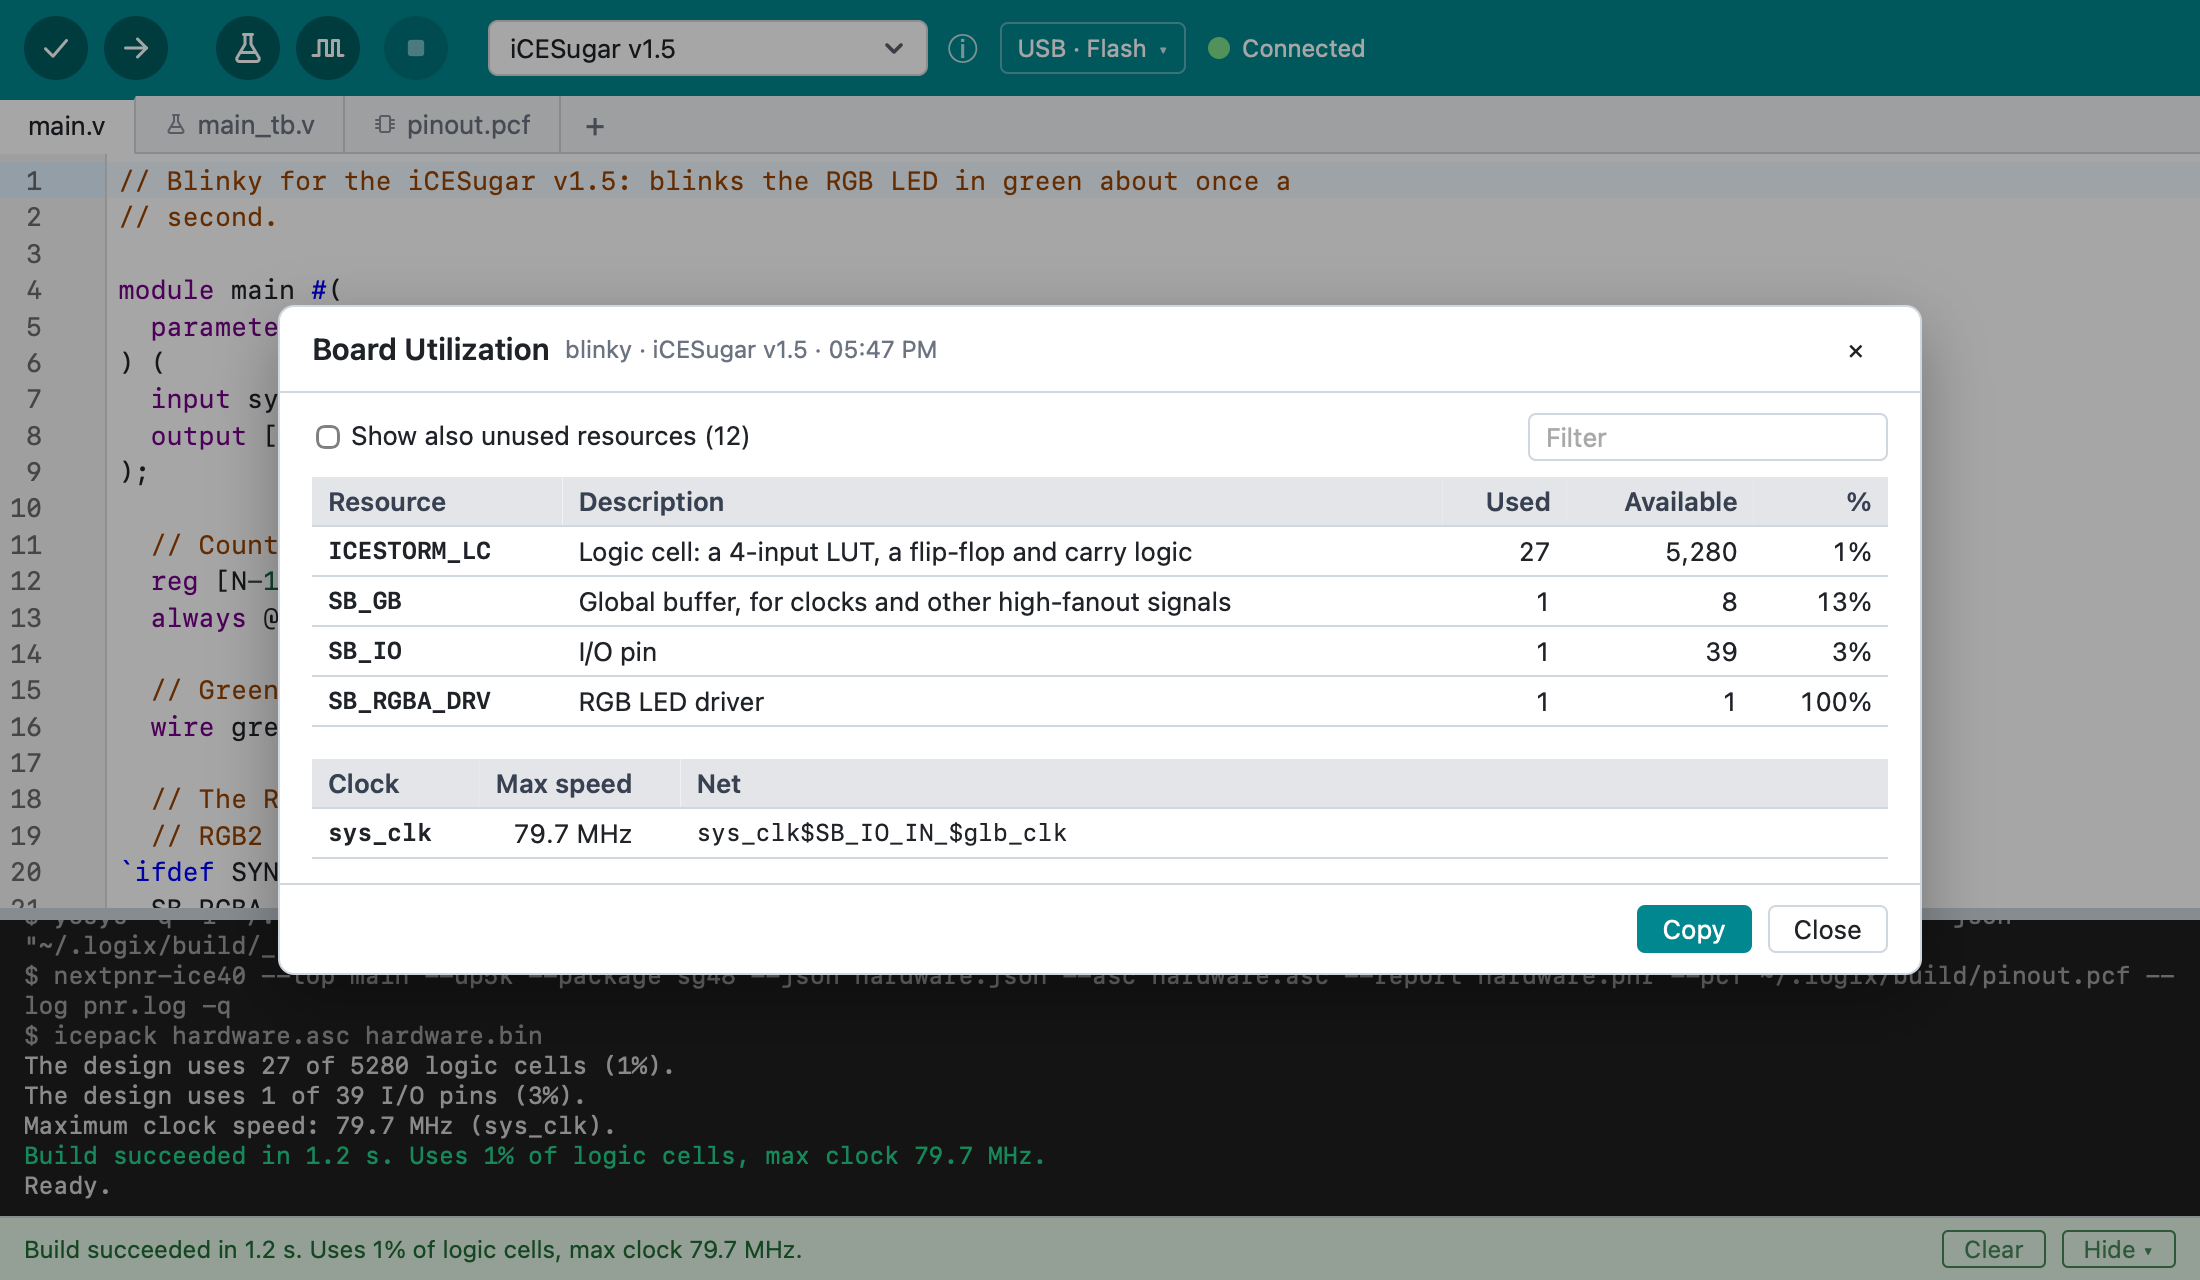
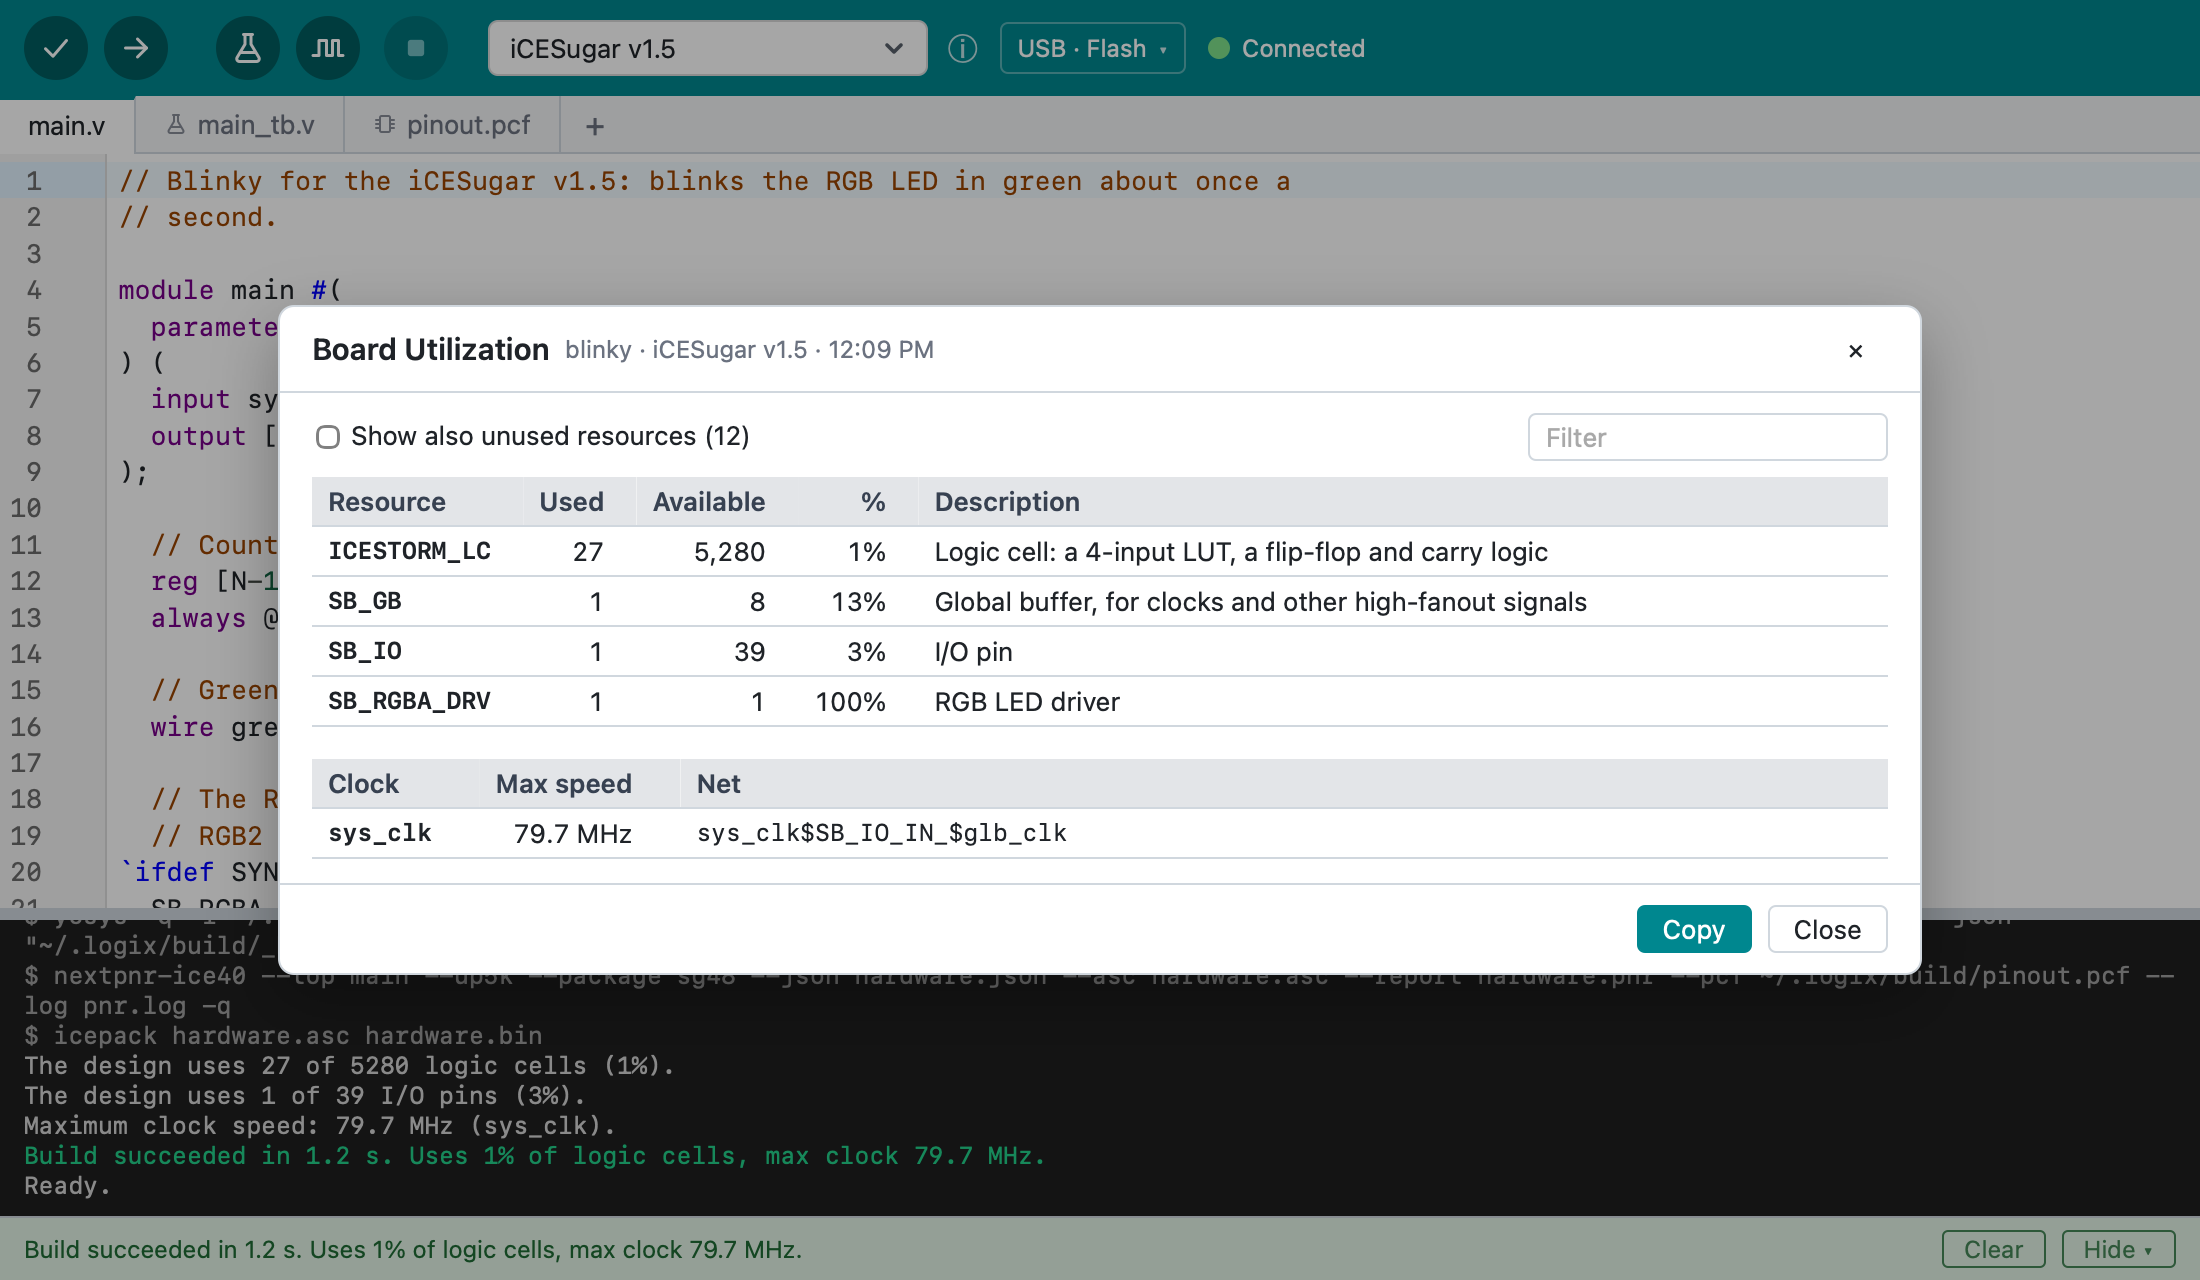
Board Utilization: the description last, next to nothing it must be matched with
The user's request: Used was hard to match with its resource across the
description. The columns are now Resource, Used, Available, % and
Description, in the window (the resource and numbers as wide as their
contents) and in the copied text. Docs screenshot regenerated.

diff --git a/ui/src/lib/BuildReport.svelte b/ui/src/lib/BuildReport.svelte
@@ -84,23 +84,23 @@
         <thead>
           <tr>
             <th>Resource</th>
-            <th>Description</th>
             <th class="num">Used</th>
             <th class="num">Available</th>
             <th class="num">%</th>
+            <th>Description</th>
           </tr>
         </thead>
         <tbody>
           {#each rows as r (r.name)}
             <tr>
               <td class="name">{r.name}</td>
-              <td>{r.description ?? ""}</td>
               <td class="num">{r.used === 0 ? "" : r.used.toLocaleString()}</td>
               <td class="num">{r.available.toLocaleString()}</td>
               <td class="num" class:invalid={r.percent === null}
                 title={r.percent === null ? "The tools reported numbers that don't fit" : undefined}
                 >{percentText(r)}</td
               >
+              <td class="description">{r.description ?? ""}</td>
             </tr>
           {:else}
             <tr><td colspan="5" class="muted">No resources match.</td></tr>
@@ -227,6 +227,14 @@
   }
   .clocks {
     margin-top: 16px;
+  }
+  /* The resource and its numbers as wide as their contents, side by side
+     so they're easy to match (the user's request, 2026-11-16); the
+     description takes the rest. */
+  .resources td:not(.description),
+  .resources th:not(:last-child) {
+    width: 1%;
+    padding-right: 16px;
   }
   /* Clock and Max speed as wide as their contents; Net takes the rest. */
   .clocks td:not(:last-child),

diff --git a/ui/e2e/app.e2e.ts b/ui/e2e/app.e2e.ts
@@ -242,13 +242,13 @@ test("Board Utilization shows the used resources, all on request, and copies the
   await expect(rows).toHaveCount(16);
   // Unused rows have no count or share, rather than "0" and "0%".
   const ram = rows.filter({ hasText: "ICESTORM_RAM" }).locator("td");
-  await expect(ram.nth(2)).toHaveText("");
-  await expect(ram.last()).toHaveText("");
+  await expect(ram.nth(1)).toHaveText("");
+  await expect(ram.nth(3)).toHaveText("");
   await dialog.getByLabel("Filter resources").fill("block ram");
   await expect(rows).toHaveCount(1);
   await dialog.getByRole("button", { name: "Copy" }).click();
   await expect(dialog).toContainText("Copied.");
-  expect((await fake()).copiedText).toMatch(/^Board Utilization: .* · iCESugar v1.5 · .*\n\nResource +Description.*\nICESTORM_RAM +Block RAM, 4 Kbit +30\n/s);
+  expect((await fake()).copiedText).toMatch(/^Board Utilization: .* · iCESugar v1.5 · .*\n\nResource +Used +Available +% +Description\nICESTORM_RAM +30 +Block RAM, 4 Kbit\n/s);
   await page.keyboard.press("Escape");
   await expect(dialog).toHaveCount(0);
 

diff --git a/ui/src/lib/buildReport.test.ts b/ui/src/lib/buildReport.test.ts
@@ -46,10 +46,10 @@ describe("build report window", () => {
       [
         "Board Utilization: blinky",
         "",
-        "Resource     Description                                             Used  Available    %",
-        "ICESTORM_LC  Logic cell: a 4-input LUT, a flip-flop and carry logic    27       7680   1%",
-        "NEW_THING                                                               3          0  n/a",
-        "SB_IO        I/O pin                                                    9        107   9%",
+        "Resource     Used  Available    %  Description",
+        "ICESTORM_LC    27       7680   1%  Logic cell: a 4-input LUT, a flip-flop and carry logic",
+        "NEW_THING       3          0  n/a",
+        "SB_IO           9        107   9%  I/O pin",
         "",
         "Clock    Max speed  Net",
         "sys_clk  194.4 MHz  sys_clk$SB_IO_IN_$glb_clk",

diff --git a/ui/src/lib/buildReport.ts b/ui/src/lib/buildReport.ts
@@ -66,16 +66,16 @@ function columns(rows: string[][], right: number[]): string {
 export function reportText(title: string, rows: ReportResource[], report: BuildReport): string {
   const resources = columns(
     [
-      ["Resource", "Description", "Used", "Available", "%"],
+      ["Resource", "Used", "Available", "%", "Description"],
       ...rows.map((r) => [
         r.name,
-        r.description ?? "",
         r.used === 0 ? "" : String(r.used),
         String(r.available),
         percentText(r),
+        r.description ?? "",
       ]),
     ],
-    [2, 3, 4],
+    [1, 2, 3],
   );
   const clocks =
     report.clocks.length === 0
